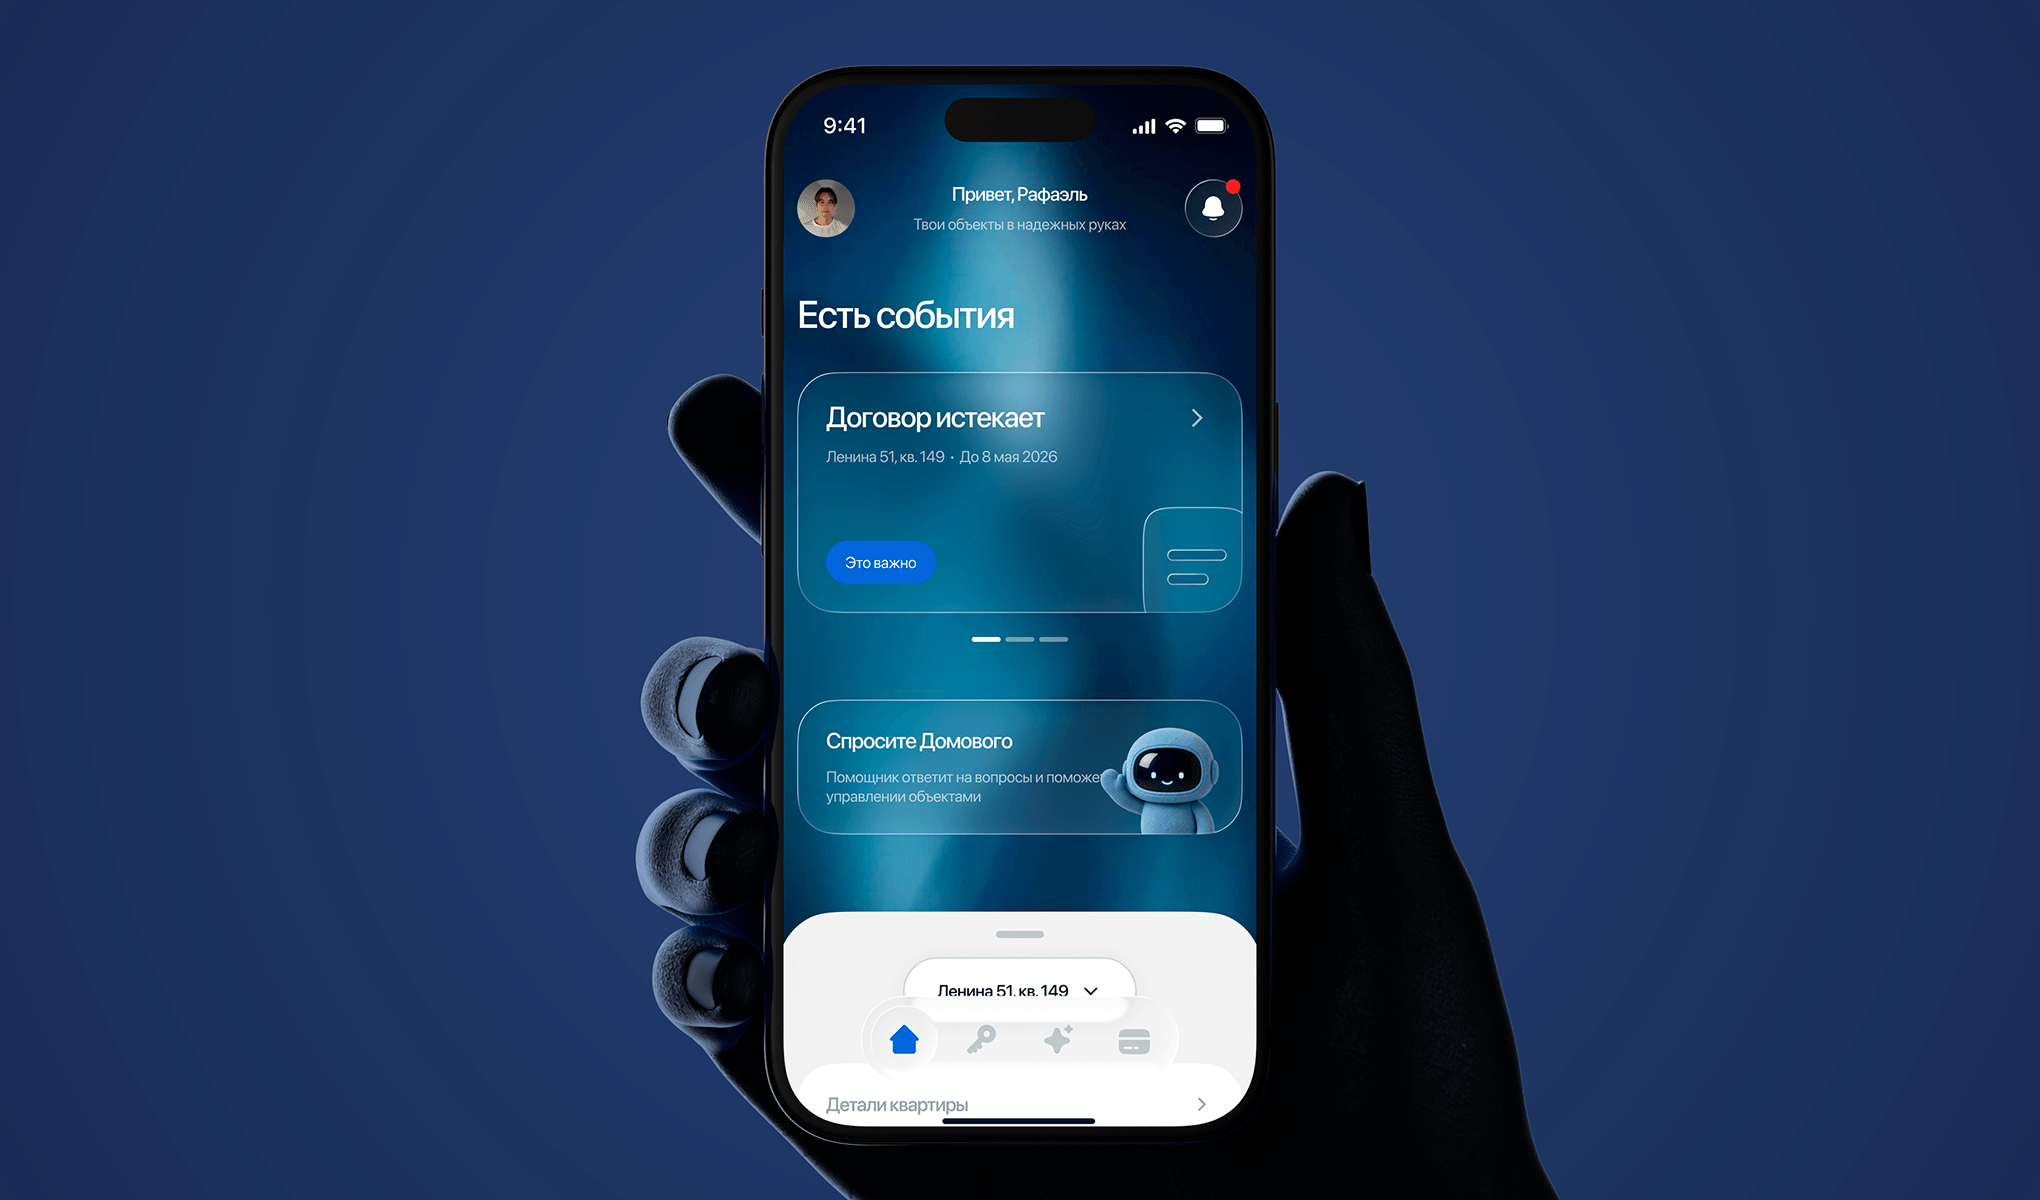
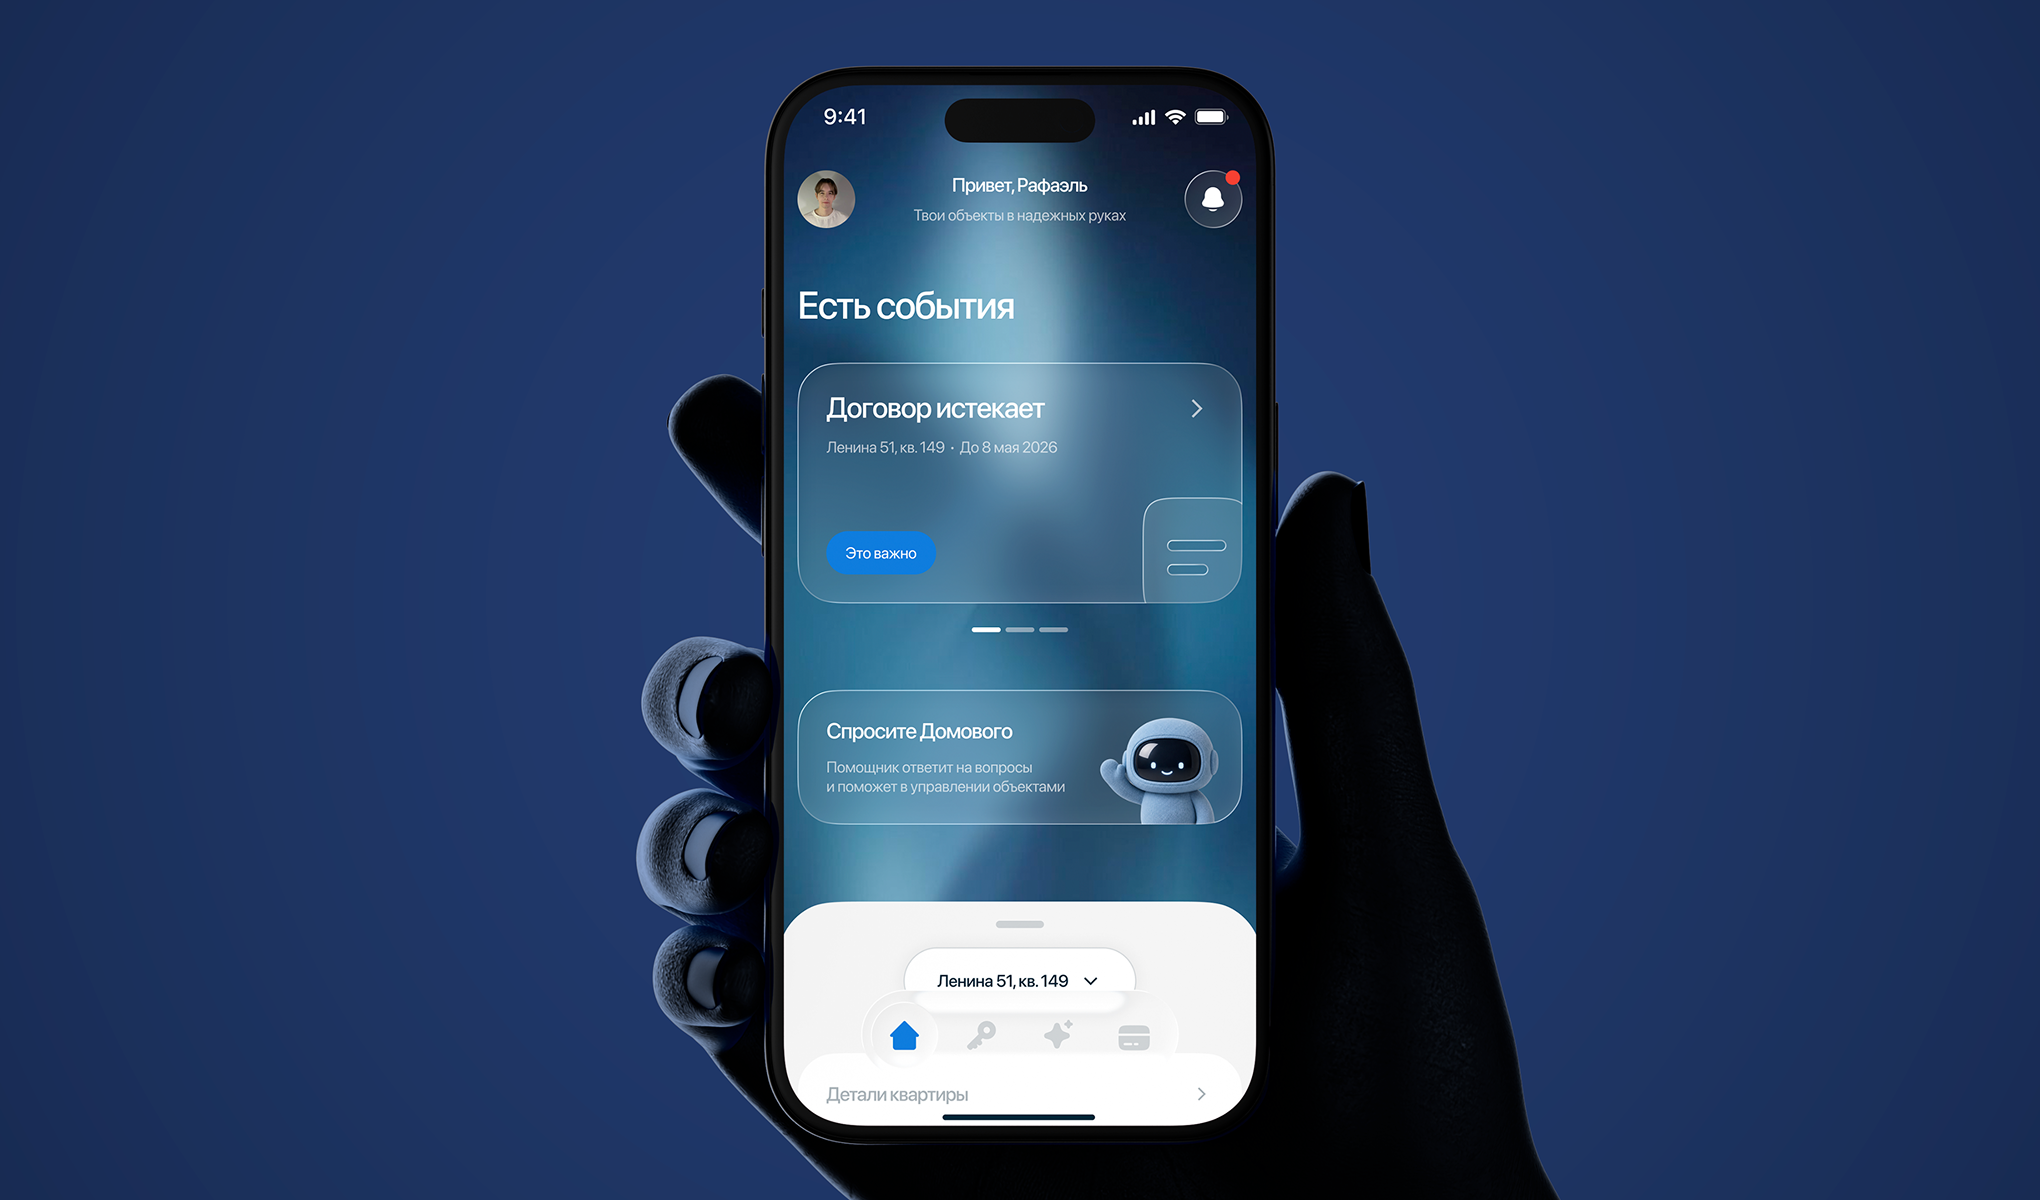
Update Domovoy hero image

diff --git a/domovoy/index.html b/domovoy/index.html
@@ -10,7 +10,7 @@
       name="description"
       content="Кейс Домовой: концепт мобильного приложения для управления недвижимостью."
     />
-    <link rel="preload" as="image" href="../assets/images/domovoy/hero.png?v=20260525-domovoy-1" />
+    <link rel="preload" as="image" href="../assets/images/domovoy/hero.png?v=20260528-domovoy-hero-1" />
     <link rel="stylesheet" href="../css/style.css?v=20260422-companies-fix-1" />
     <link rel="stylesheet" href="../css/marshall.css?v=20260526-domovoy-mobile-1" />
   </head>
@@ -49,7 +49,7 @@
         <div class="marshall-page__hero-frame">
           <img
             class="marshall-page__shot marshall-page__shot--hero marshall-page__hero-image"
-            src="../assets/images/domovoy/hero.png?v=20260525-domovoy-1"
+            src="../assets/images/domovoy/hero.png?v=20260528-domovoy-hero-1"
             alt="Главный экран приложения Домовой"
             loading="eager"
             decoding="async"

diff --git a/index.html b/index.html
@@ -255,7 +255,7 @@
                 <div class="project-card__media">
                   <img
                     class="project-card__cover"
-                    src="./assets/images/home/projects-domovoy-figma.png?v=20260525-domovoy-1"
+                    src="./assets/images/domovoy/hero.png?v=20260528-domovoy-hero-1"
                     alt="Превью кейса Домовой"
                     loading="lazy"
                     decoding="async"
@@ -292,7 +292,7 @@
                 <div class="project-card__media">
                   <img
                     class="project-card__cover"
-                    src="./assets/images/home/projects-domovoy-figma.png?v=20260525-domovoy-1"
+                    src="./assets/images/domovoy/hero.png?v=20260528-domovoy-hero-1"
                     alt="Превью кейса Домовой"
                     loading="lazy"
                     decoding="async"
